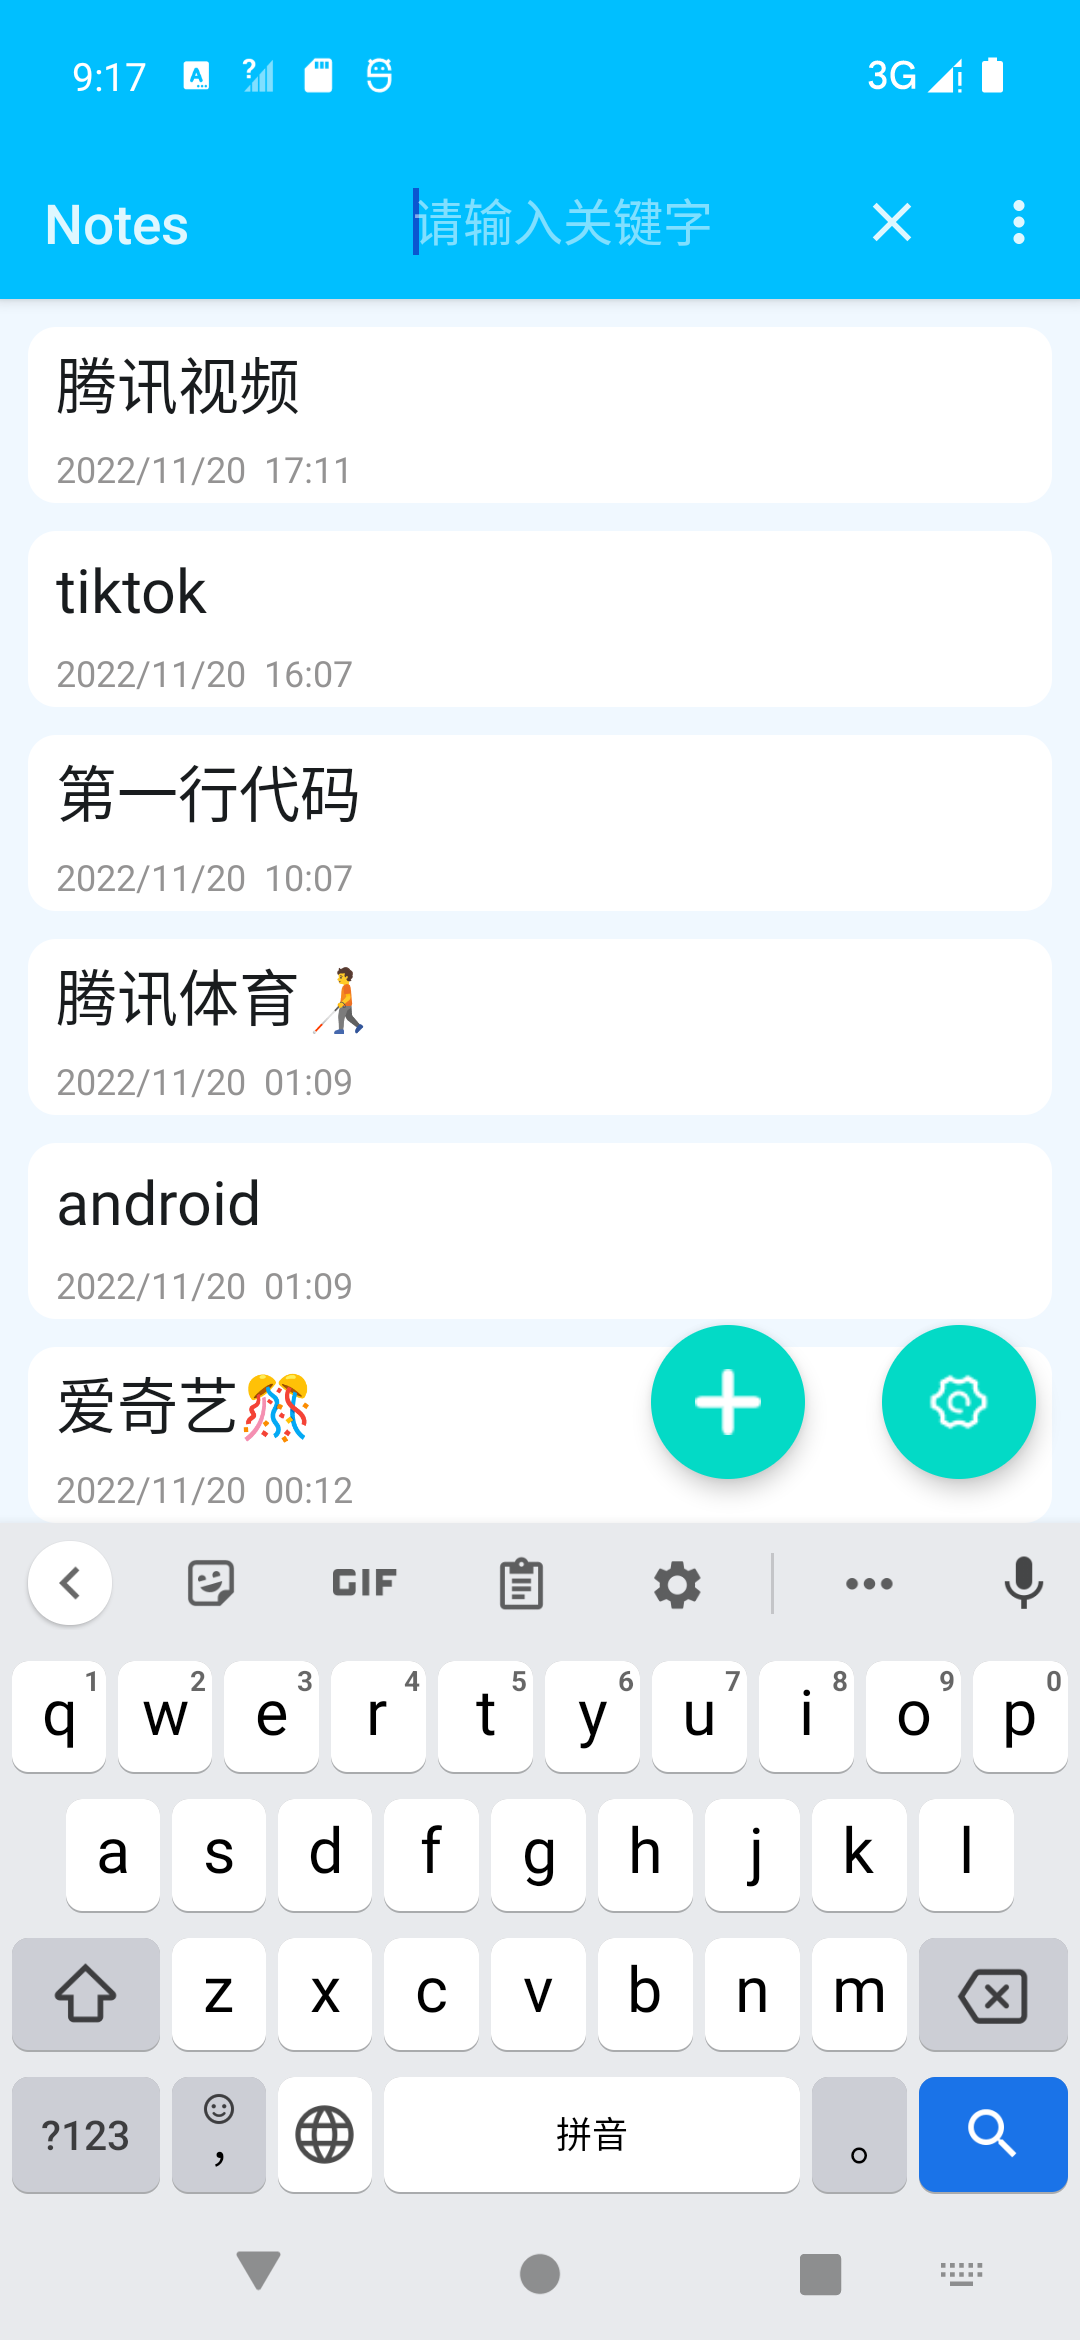
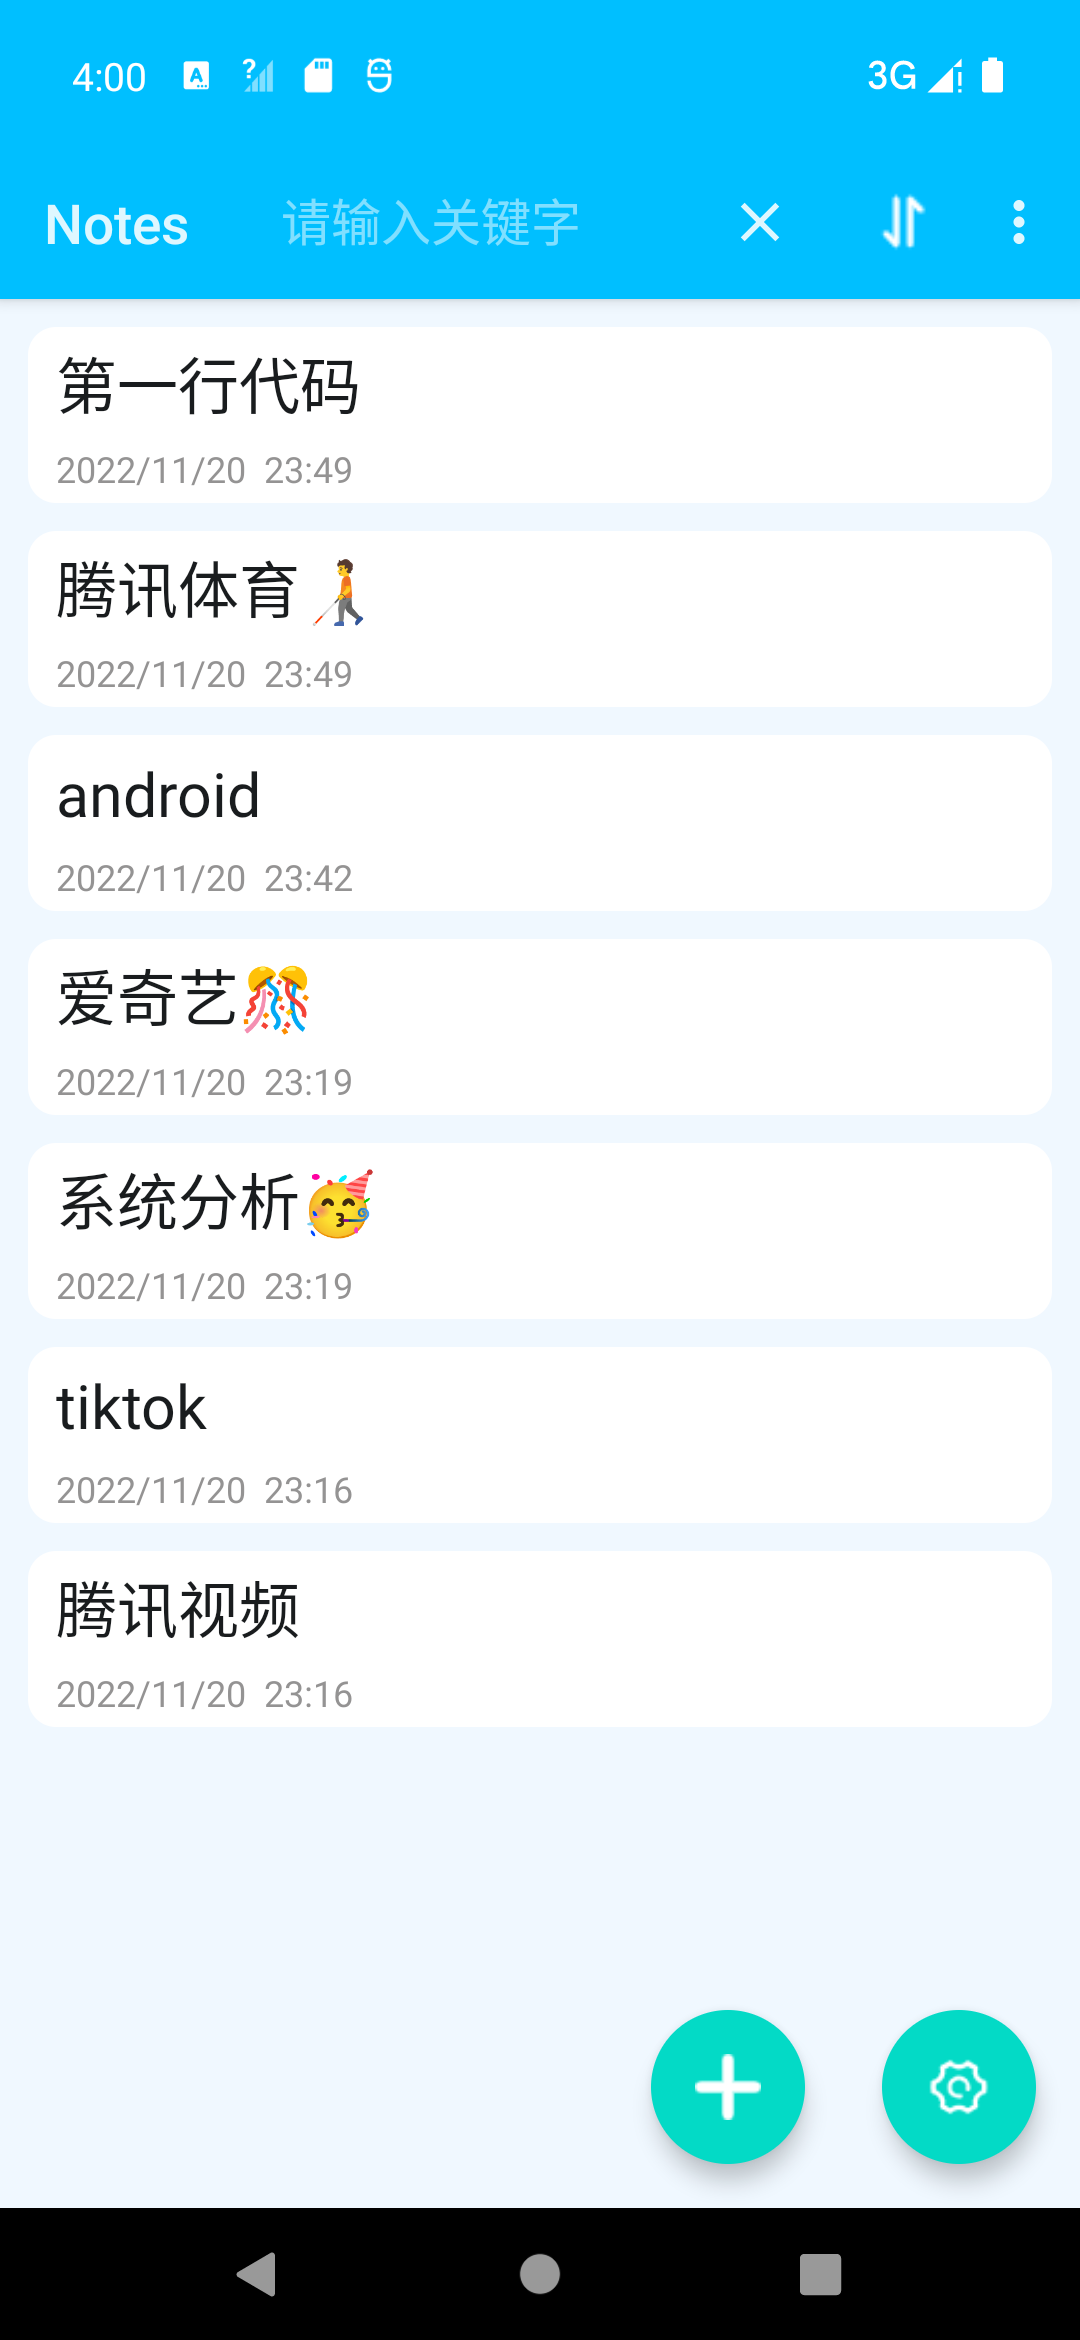
commit

diff --git a/NotePad-master/README.md b/NotePad-master/README.md
@@ -26,7 +26,7 @@ dependencies{
 
 - 效果图：
 
-<img src="picture\time-text.png" width="250px"/>
+<img src="picture\paixu3.png" width="250px"/>
 
 - 分析：源程序中已有更新事件的条目，只要把它取出来用就行，然后再进行如下转换，将毫秒数转为上图形式
 - 关键代码：
@@ -55,7 +55,7 @@ public boolean setViewValue(View view,Cursor cursor,int i){
 
 - 效果图：
 
-<img src="picture\query1.png" width="250px"/>     <img src="picture\query.png" width="250px"/>
+<img src="picture\query.png" width="250px"/>     <img src="picture\query1.png" width="250px"/>
 
 - 分析：
     - 在`ActionBar`上面先放了一个放大镜的图标，使用`setOnQueryTextListener`设置文本监听。重写`onQueryTextChange`
